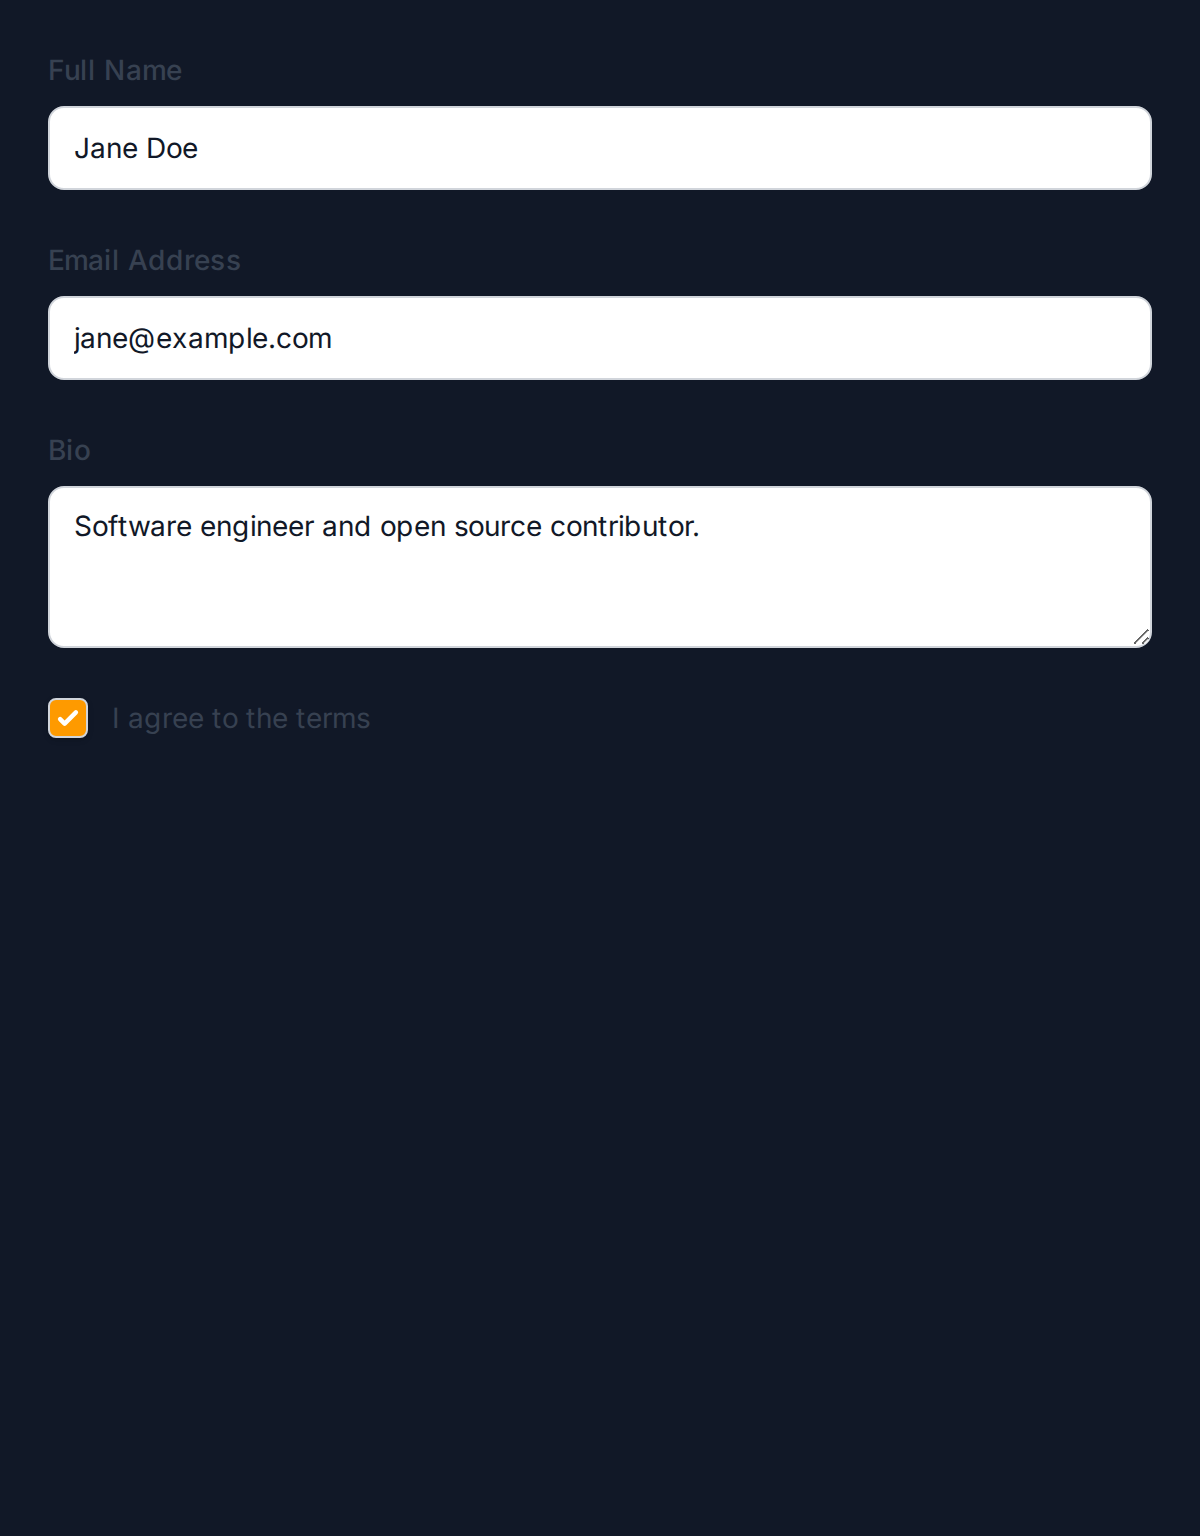
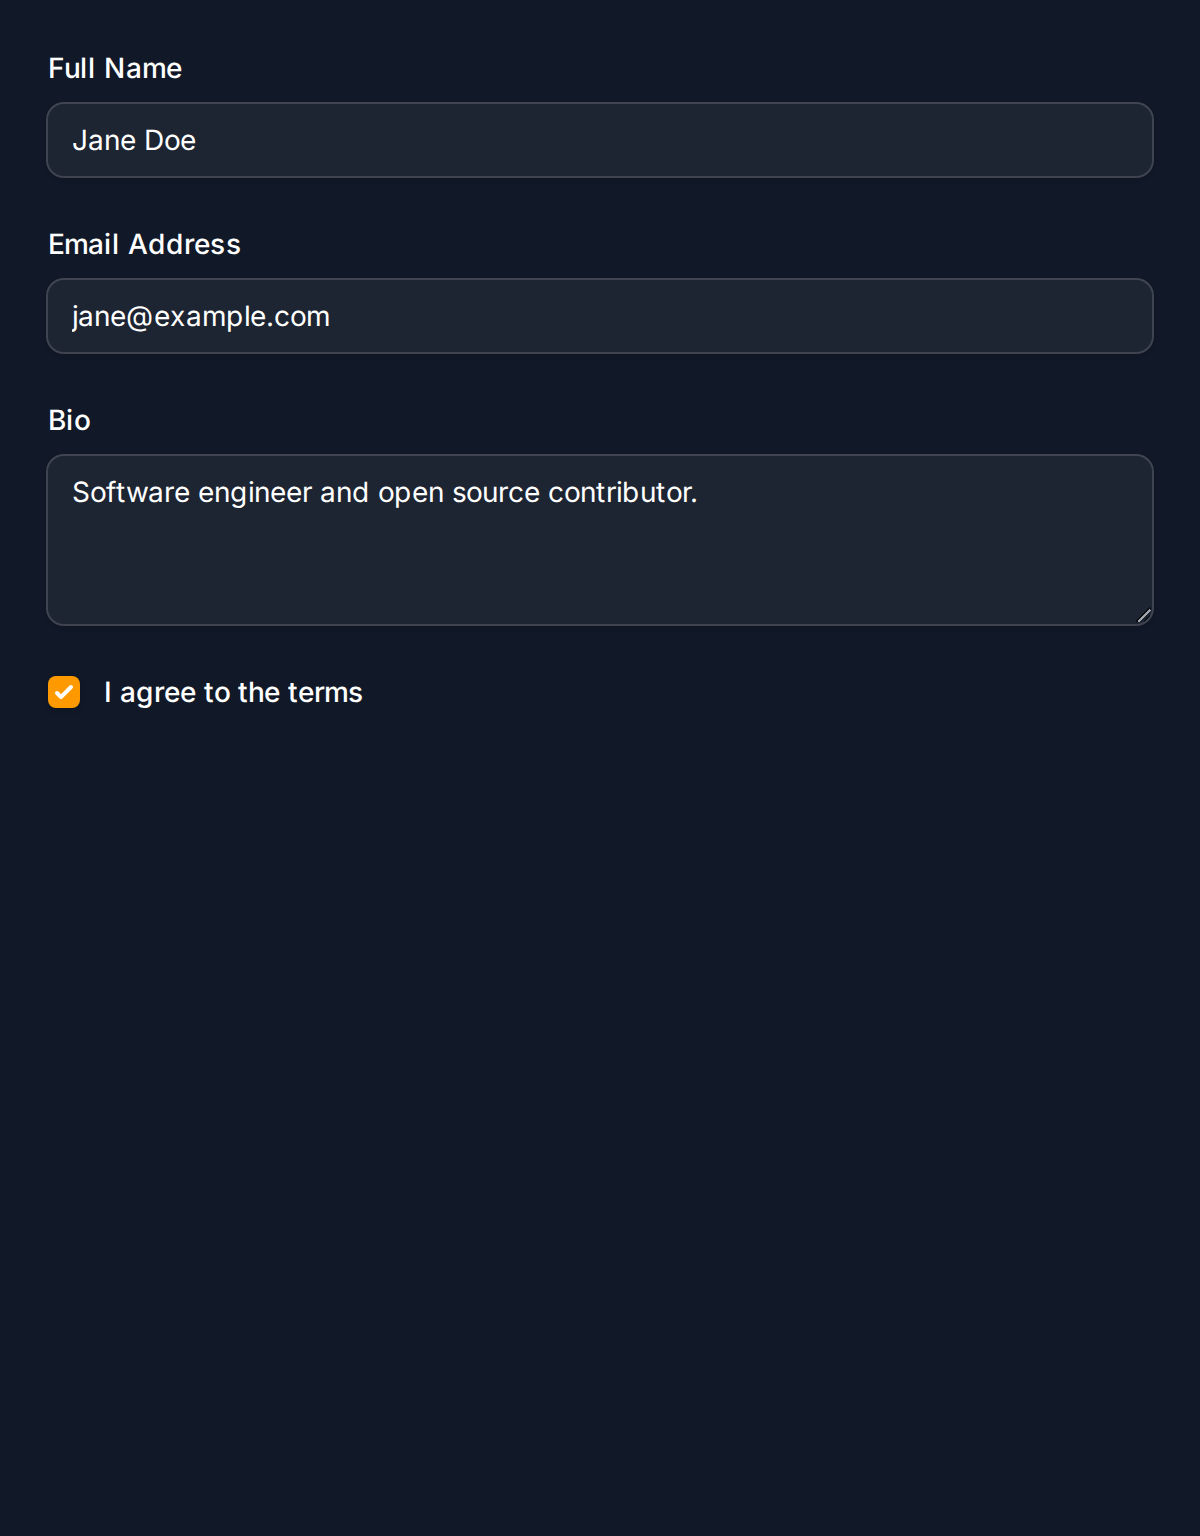
Use Filament CSS classes for form templates instead of inline styles
Replace hand-rolled inline styles with Filament's actual CSS classes:
- fi-fo-field, fi-fo-field-label, fi-fo-field-label-content for field wrappers
- fi-input-wrp, fi-input for text inputs and textareas
- fi-fo-text-input, fi-fo-select, fi-fo-textarea for type-specific wrappers
- fi-toggle with fi-toggle-on/off and proper color classes via FilamentColor
- fi-checkbox-input, fi-select-input for native elements

This makes form screenshots match Filament's actual appearance.

Changed region(s): [[0.0308, 0.1562, 0.9867, 0.5], [0.0308, 0.0312, 0.9867, 0.125]]

diff --git a/resources/views/components/fields/toggle.blade.php b/resources/views/components/fields/toggle.blade.php
@@ -1,12 +1,24 @@
+@php
+    $isOn = (bool) ($field['value'] ?? false);
+    $stateClass = $isOn ? 'fi-toggle-on' : 'fi-toggle-off';
+    $colorClasses = $isOn ? ($field['onColorClasses'] ?? '') : ($field['offColorClasses'] ?? '');
+@endphp
+<div class="fi-fo-field-label-col">
+    <div class="fi-fo-field-label-ctn">
+        <label class="fi-fo-field-label">
+            <span class="fi-fo-field-label-content">{{ $field['label'] ?? '' }}</span>
+        </label>
+    </div>
+</div>
 <button
     type="button"
     role="switch"
-    aria-checked="{{ ($field['value'] ?? false) ? 'true' : 'false' }}"
+    aria-checked="{{ $isOn ? 'true' : 'false' }}"
     @if($field['disabled'] ?? false) disabled @endif
-    class="fi-toggle-input"
-    style="position: relative; display: inline-flex; height: 1.5rem; width: 2.75rem; flex-shrink: 0; cursor: pointer; border-radius: 9999px; border: 2px solid transparent; transition: background-color 0.2s; background-color: {{ ($field['value'] ?? false) ? '#6366f1' : '#d1d5db' }};"
+    class="fi-toggle fi-fo-toggle {{ $stateClass }} {{ $colorClasses }}"
 >
-    <span
-        style="display: inline-block; height: 1.25rem; width: 1.25rem; border-radius: 9999px; background-color: white; box-shadow: 0 1px 3px rgba(0,0,0,0.1); transition: transform 0.2s; transform: translateX({{ ($field['value'] ?? false) ? '1.25rem' : '0' }});"
-    ></span>
+    <div>
+        <div aria-hidden="true"></div>
+        <div aria-hidden="true"></div>
+    </div>
 </button>

diff --git a/resources/views/components/fields/select.blade.php b/resources/views/components/fields/select.blade.php
@@ -1,13 +1,16 @@
-<select
-    name="{{ $field['name'] }}"
-    @if($field['disabled'] ?? false) disabled @endif
-    class="fi-select-input"
-    style="display: block; width: 100%; border-radius: 0.5rem; border: 1px solid #d1d5db; background-color: white; padding: 0.5rem 0.75rem; font-size: 0.875rem; color: #111827; outline: none; box-sizing: border-box; appearance: none;"
->
-    @if(!empty($field['placeholder']))
-        <option value="">{{ $field['placeholder'] }}</option>
-    @endif
-    @foreach($field['options'] ?? [] as $value => $label)
-        <option value="{{ $value }}" @if(($field['value'] ?? '') == $value) selected @endif>{{ $label }}</option>
-    @endforeach
-</select>
+<div class="fi-input-wrp fi-fo-select fi-fo-select-native">
+    <div class="fi-input-wrp-content-ctn">
+        <select
+            name="{{ $field['name'] }}"
+            @if($field['disabled'] ?? false) disabled @endif
+            class="fi-select-input"
+        >
+            @if(!empty($field['placeholder']))
+                <option value="">{{ $field['placeholder'] }}</option>
+            @endif
+            @foreach($field['options'] ?? [] as $value => $label)
+                <option value="{{ $value }}" @if(($field['value'] ?? '') == $value) selected @endif>{{ $label }}</option>
+            @endforeach
+        </select>
+    </div>
+</div>

diff --git a/resources/views/components/form.blade.php b/resources/views/components/form.blade.php
@@ -1,13 +1,19 @@
 <div class="fi-fo-component-ctn" style="display: flex; flex-direction: column; gap: 1.5rem;">
     @foreach($fields as $field)
-        <div class="fi-fo-field-wrp">
-            @if(!empty($field['label']) && $field['type'] !== 'checkbox')
-                <label class="fi-fo-field-wrp-label" style="display: block; margin-bottom: 0.5rem; font-size: 0.875rem; font-weight: 500; color: #374151;">
-                    {{ $field['label'] }}
-                </label>
+        <div class="fi-fo-field">
+            @if(!empty($field['label']) && !in_array($field['type'], ['checkbox', 'toggle']))
+                <div class="fi-fo-field-label-col">
+                    <div class="fi-fo-field-label-ctn">
+                        <label class="fi-fo-field-label">
+                            <span class="fi-fo-field-label-content">{{ $field['label'] }}</span>
+                        </label>
+                    </div>
+                </div>
             @endif
 
-            @include('filament-shot::components.fields.' . $field['type'], ['field' => $field])
+            <div class="fi-fo-field-content-col">
+                @include('filament-shot::components.fields.' . $field['type'], ['field' => $field])
+            </div>
         </div>
     @endforeach
 </div>

diff --git a/src/Renderers/FormRenderer.php b/src/Renderers/FormRenderer.php
@@ -9,6 +9,8 @@ use Filament\Forms\Components\Select;
 use Filament\Forms\Components\Textarea;
 use Filament\Forms\Components\TextInput;
 use Filament\Forms\Components\Toggle;
+use Filament\Support\Facades\FilamentColor;
+use Filament\Support\View\Components\ToggleComponent;
 
 class FormRenderer extends BaseRenderer
 {
@@ -69,6 +71,13 @@ class FormRenderer extends BaseRenderer
 
         if ($component instanceof Textarea) {
             $data['rows'] = $this->safeCall(fn () => $component->getRows(), 3);
+        }
+
+        if ($component instanceof Toggle) {
+            $onColor = $this->safeCall(fn () => $component->getOnColor(), 'primary') ?? 'primary';
+            $offColor = $this->safeCall(fn () => $component->getOffColor(), 'gray') ?? 'gray';
+            $data['onColorClasses'] = implode(' ', FilamentColor::getComponentClasses(ToggleComponent::class, $onColor));
+            $data['offColorClasses'] = implode(' ', FilamentColor::getComponentClasses(ToggleComponent::class, $offColor));
         }
 
         if ($component instanceof Placeholder) {

diff --git a/resources/views/components/fields/text-input.blade.php b/resources/views/components/fields/text-input.blade.php
@@ -1,10 +1,13 @@
-<input
-    type="{{ $field['input_type'] ?? 'text' }}"
-    name="{{ $field['name'] }}"
-    value="{{ $field['value'] ?? '' }}"
-    placeholder="{{ $field['placeholder'] ?? '' }}"
-    @if($field['disabled'] ?? false) disabled @endif
-    @if($field['readonly'] ?? false) readonly @endif
-    class="fi-input"
-    style="display: block; width: 100%; border-radius: 0.5rem; border: 1px solid #d1d5db; background-color: white; padding: 0.5rem 0.75rem; font-size: 0.875rem; color: #111827; outline: none; box-sizing: border-box;"
-/>
+<div class="fi-input-wrp fi-fo-text-input">
+    <div class="fi-input-wrp-content-ctn">
+        <input
+            type="{{ $field['input_type'] ?? 'text' }}"
+            name="{{ $field['name'] }}"
+            value="{{ $field['value'] ?? '' }}"
+            placeholder="{{ $field['placeholder'] ?? '' }}"
+            @if($field['disabled'] ?? false) disabled @endif
+            @if($field['readonly'] ?? false) readonly @endif
+            class="fi-input"
+        />
+    </div>
+</div>

diff --git a/resources/views/components/fields/textarea.blade.php b/resources/views/components/fields/textarea.blade.php
@@ -1,8 +1,11 @@
-<textarea
-    name="{{ $field['name'] }}"
-    rows="{{ $field['rows'] ?? 3 }}"
-    placeholder="{{ $field['placeholder'] ?? '' }}"
-    @if($field['disabled'] ?? false) disabled @endif
-    class="fi-textarea-input"
-    style="display: block; width: 100%; border-radius: 0.5rem; border: 1px solid #d1d5db; background-color: white; padding: 0.5rem 0.75rem; font-size: 0.875rem; color: #111827; outline: none; box-sizing: border-box; resize: vertical;"
->{{ $field['value'] ?? '' }}</textarea>
+<div class="fi-input-wrp fi-fo-textarea">
+    <div class="fi-input-wrp-content-ctn">
+        <textarea
+            name="{{ $field['name'] }}"
+            rows="{{ $field['rows'] ?? 3 }}"
+            placeholder="{{ $field['placeholder'] ?? '' }}"
+            @if($field['disabled'] ?? false) disabled @endif
+            class="fi-input"
+        >{{ $field['value'] ?? '' }}</textarea>
+    </div>
+</div>

diff --git a/resources/views/components/fields/radio.blade.php b/resources/views/components/fields/radio.blade.php
@@ -1,4 +1,4 @@
-<div class="fi-radio" style="display: flex; flex-direction: column; gap: 0.5rem;">
+<div class="fi-fo-radio" style="display: flex; flex-direction: column; gap: 0.75rem;">
     @foreach($field['options'] ?? [] as $value => $label)
         <label style="display: inline-flex; align-items: center; gap: 0.75rem; cursor: pointer;">
             <input
@@ -7,9 +7,9 @@
                 value="{{ $value }}"
                 @if(($field['value'] ?? '') == $value) checked @endif
                 @if($field['disabled'] ?? false) disabled @endif
-                style="height: 1.25rem; width: 1.25rem; border: 1px solid #d1d5db; color: #6366f1;"
+                class="fi-radio-input"
             />
-            <span style="font-size: 0.875rem; color: #374151;">{{ $label }}</span>
+            <span class="fi-fo-field-label-content">{{ $label }}</span>
         </label>
     @endforeach
 </div>

diff --git a/resources/views/components/fields/checkbox.blade.php b/resources/views/components/fields/checkbox.blade.php
@@ -1,13 +1,14 @@
-<label style="display: inline-flex; align-items: center; gap: 0.75rem; cursor: pointer;">
+<div class="fi-fo-field-label-col" style="display: flex; align-items: center; gap: 0.75rem;">
     <input
         type="checkbox"
         name="{{ $field['name'] }}"
         @if($field['value'] ?? false) checked @endif
         @if($field['disabled'] ?? false) disabled @endif
         class="fi-checkbox-input"
-        style="height: 1.25rem; width: 1.25rem; border-radius: 0.25rem; border: 1px solid #d1d5db; color: #6366f1;"
     />
     @if(!empty($field['label']))
-        <span style="font-size: 0.875rem; color: #374151;">{{ $field['label'] }}</span>
+        <label class="fi-fo-field-label">
+            <span class="fi-fo-field-label-content">{{ $field['label'] }}</span>
+        </label>
     @endif
-</label>
+</div>

diff --git a/tests/Unit/FormRendererTest.php b/tests/Unit/FormRendererTest.php
@@ -54,7 +54,7 @@ it('renders a textarea field', function () {
 
     expect($html)
         ->toContain('Biography')
-        ->toContain('fi-textarea-input')
+        ->toContain('fi-fo-textarea')
         ->toContain('name="bio"');
 });
 
@@ -65,7 +65,7 @@ it('renders a toggle field', function () {
 
     expect($html)
         ->toContain('Active')
-        ->toContain('fi-toggle-input');
+        ->toContain('fi-toggle');
 });
 
 it('renders a checkbox field', function () {

diff --git a/resources/views/components/fields/placeholder.blade.php b/resources/views/components/fields/placeholder.blade.php
@@ -1,3 +1,3 @@
-<div class="fi-fo-placeholder" style="font-size: 0.875rem; color: #6b7280;">
+<div class="fi-fo-placeholder">
     {{ $field['content'] ?? '' }}
 </div>
